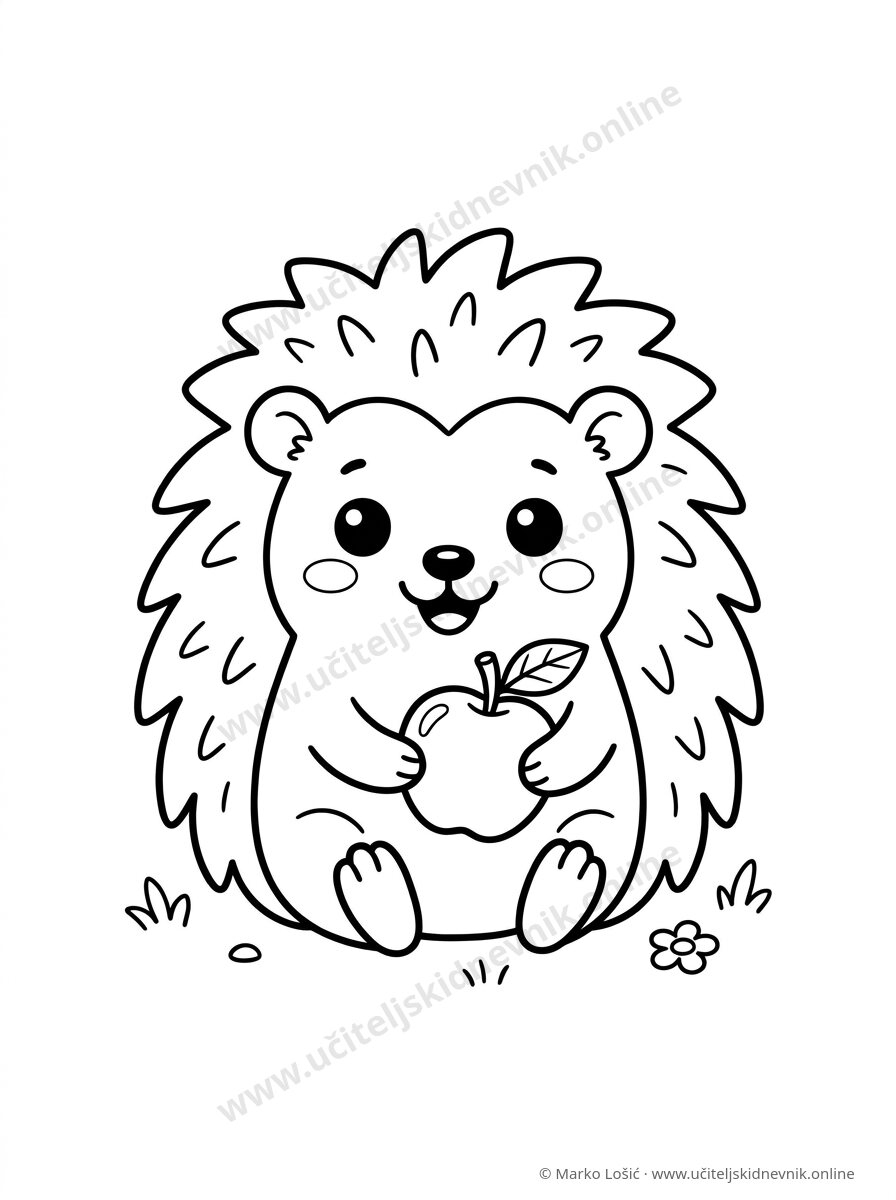
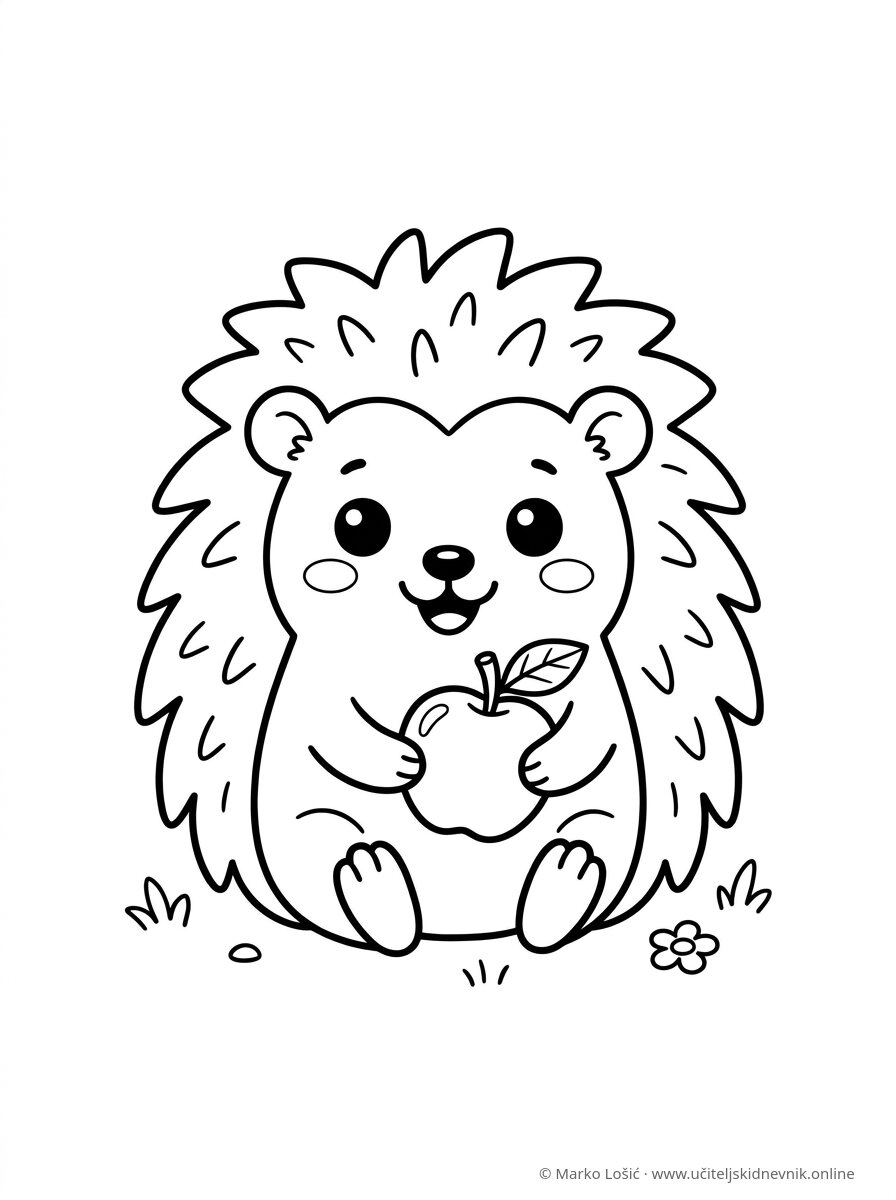
Izbačen watermark

diff --git a/src/games/wildAnimals.tsx b/src/games/wildAnimals.tsx
@@ -1,6 +1,6 @@
 // Bojanka „Divlje životinje“: naslovna strana, 12 životinja (svaka sa imenom i zanimljivošću) i strana
 // za crtanje. Svi crteži su naši (SVG u kodu), da bojanka ne zavisi od tuđih ilustracija.
-// Vodeni žig sajta je ispod crteža: vidi se u praznom prostoru, a životinje (bijela ispuna) ga pokrivaju.
+// U donjem desnom uglu svake slike je mali potpis autora i adresa sajta.
 import type { ReactNode, SVGProps } from 'react';
 import { siteConfig } from '../config/site';
 import type { Dictionary } from '../i18n/dictionaries';
@@ -122,26 +122,10 @@ function Ground({ y = 512 }: { y?: number }) {
   return <path d={`M8 ${y + 6} Q160 ${y - 10} 300 ${y} T592 ${y - 4}`} {...T} strokeWidth={3} />;
 }
 
-function Watermark() {
-  const text = `www.${siteConfig.name}`;
-  return (
-    <g fill="#9ca3af" opacity={0.28} fontFamily="'Space Grotesk', sans-serif" fontSize={26} fontWeight={700} textAnchor="middle">
-      <g transform="rotate(-28 300 300)">
-        {[150, 320, 490].map((y) => (
-          <text key={y} x={300} y={y}>
-            {text}
-          </text>
-        ))}
-      </g>
-    </g>
-  );
-}
-
 function Frame({ children, label }: { children: ReactNode; label?: string }) {
   return (
     <svg viewBox={`0 0 ${SIZE} ${SIZE}`} className="block w-full" role="img" aria-label={label}>
       <rect x={6} y={6} width={588} height={588} rx={22} fill="#fff" stroke={INK} strokeWidth={3} />
-      <Watermark />
       {children}
       <text x={580} y={586} textAnchor="end" fontSize={11} fill="#6b7280">
         © {siteConfig.author.name} · www.{siteConfig.name}

diff --git a/src/games/forestAnimals.tsx b/src/games/forestAnimals.tsx
@@ -1,5 +1,5 @@
 // Bojanka „Šumske životinje“: autorove ilustracije (public/slike/bojanke/sumske-zivotinje/).
-// Vodeni žig i potpis su upisani u same slike (ImageMagick), pa ostaju i kad se slika preuzme sa sajta.
+// Mali potpis autora (donji desni ugao) je upisan u same slike (ImageMagick).
 import type { ReactNode } from 'react';
 import type { Dictionary } from '../i18n/dictionaries';
 

diff --git a/CLAUDE.md b/CLAUDE.md
@@ -154,8 +154,8 @@ Učiteljski_dnevnik/            ← koren projekta (npm ime: uciteljski-dnevnik)
     │   ├── shared.tsx         # toyHex, shuffle, ShapeIcon, RoundDots, useShake, useDragDrop
     │   ├── things.ts          # sličice (lucide) za pamćenje, brojanje, veličine
     │   ├── worksheets.tsx     # 21 radni list: igre na papiru, predpisanje, pisanje, brojevi, logika
-    │   ├── wildAnimals.tsx    # bojanka „Divlje životinje“ (14 strana, naši SVG crteži, vodeni žig sajta)
-    │   ├── forestAnimals.tsx  # bojanka „Šumske životinje“ (9 autorovih ilustracija, žig upisan u slike)
+    │   ├── wildAnimals.tsx    # bojanka „Divlje životinje“ (14 strana, naši SVG crteži)
+    │   ├── forestAnimals.tsx  # bojanka „Šumske životinje“ (9 autorovih ilustracija, potpis upisan u slike)
     │   ├── packs.tsx          # paketi od postojećih listova (WORKSHEET_PACKS): „Paket za zimski raspust“
     │   ├── workbook.tsx       # vježbanka „Vježbam kod kuće — matematika, 2. razred“ (16 strana)
     │   ├── writingHandbook.tsx # priručnik „Kako nastaje priča“ za mlade pisce (15 strana, latinica i ćirilica)
@@ -688,8 +688,8 @@ Redosled sekcija (lično predstavljanje pa blog):
 - Grupa `time` (Spoznaja vremena: `timeSequence`, `timeDayParts`, `timeRoutine`, `timeClock`, `timeWeek`, `timeYear`) i smislene bojanke (`coloringHandWash`, `coloringTraffic`, `coloringFood`, `coloringRecycle`, `coloringFeelings`) crtaju se u kodu (`worksheets.tsx`); isto važi za vežbe uz te lekcije (`timeClockRead`, `timeClockMath`, `timeDaysOrder`, `timeCalendar`) i matematiku sa mnogo zadataka (`mathAdd10`…`mathDivide` po 2 × 48 zadataka iz generatora sa fiksnim semenom — `DRILL_SETS`, da se štampa uvek isto; `mathHouses`, `mathPyramids`, `mathNumberLine`, `mathWordProblems` sa tekstom zadataka u `labels.wordProblems`). Pitanja u `labels.calendarTasks` važe za kalendar od 30 dana koji počinje u sredu (`CALENDAR_START`); natpisi na njima (dani, meseci, delovi dana, osećanja…) su u `t.games.worksheet.labels` i stižu kroz `SheetContext.labels` — imena dana i mjeseci su u rečnicima (ne iz `Intl`), da svaki jezik ima tačno svoje oblike (npr. hr: siječanj).
 - Grupa `books` („Priručnici i vježbanke“) je prva na stranici radnih listova i drži izdanja od više strana (vježbanka i priručnik); nova takva izdanja idu u nju, a ne u tematske grupe.
 - **Paketi** (`packs.tsx`, `WORKSHEET_PACKS`): izdanje složeno od prve strane postojećih listova, jedan list = jedan dan. `Worksheet.tsx` daje svakoj takvoj strani zaglavlje njenog lista (naslov, uputstvo, eyebrow „Dan N“), pa staje na A4 isto kao sam list. Vlastite strane paketa: prva (plan) ide na početak, ostale (diploma) na kraj. U paket idu samo listovi od jedne strane koji postoje na svim jezicima paketa. „Paket za zimski raspust“ (`winterBreakPack`) = plan + 12 dana + diploma; tekst je u `t.games.worksheet.labels.winterPack`.
-- **Bojanka „Divlje životinje“** (`coloringWildAnimals`, `wildAnimals.tsx`, grupa `books`): naslovna strana, 12 životinja (svaka: scena + životinja + ime u slovima za bojenje + zanimljivost ispod) i strana za crtanje. Crteži su naši (SVG u kodu) — **ne precrtavati tuđe bojanke**. Vodeni žig (`www.` + `siteConfig.name`, koso, svijetlosivo) ide ispod crteža, pa ga životinje sa bijelom ispunom pokrivaju. Imena i zanimljivosti su u `t.games.worksheet.labels.wildAnimals`. Nova životinja: id u `WILD_ANIMALS`, komponenta u `ANIMALS`, scena u `SCENES`, tekst u svih pet rječnika.
-- **Bojanka „Šumske životinje“** (`coloringForestAnimals`, `forestAnimals.tsx`, grupa `books`): autorove ilustracije u `public/slike/bojanke/sumske-zivotinje/NN-ime.jpg` (896×1200, sivo). Vodeni žig (koso, svijetlosivo) i potpis „© Marko Lošić · www.učiteljskidnevnik.online“ su **upisani u sliku** ImageMagickom (`magick … -annotate 330x330 … -compose multiply`, font Noto Sans), pa ostaju i kad se slika preuzme. Nova slika ide kroz isti postupak. Ime i zanimljivost su u `t.games.worksheet.labels.forestAnimals`. Sličica za kartice i og:image je `02-lisica.jpg` (`thumbnails.ts`).
+- **Bojanka „Divlje životinje“** (`coloringWildAnimals`, `wildAnimals.tsx`, grupa `books`): naslovna strana, 12 životinja (svaka: scena + životinja + ime u slovima za bojenje + zanimljivost ispod) i strana za crtanje. Crteži su naši (SVG u kodu) — **ne precrtavati tuđe bojanke**. Bez vodenog žiga (autor ga ne želi); u donjem desnom uglu svake slike je mali potpis. Imena i zanimljivosti su u `t.games.worksheet.labels.wildAnimals`. Nova životinja: id u `WILD_ANIMALS`, komponenta u `ANIMALS`, scena u `SCENES`, tekst u svih pet rječnika.
+- **Bojanka „Šumske životinje“** (`coloringForestAnimals`, `forestAnimals.tsx`, grupa `books`): autorove ilustracije u `public/slike/bojanke/sumske-zivotinje/NN-ime.jpg` (896×1200, sivo). Bez vodenog žiga (autor ga ne želi); mali potpis „© Marko Lošić · www.učiteljskidnevnik.online“ u donjem desnom uglu je **upisan u sliku** ImageMagickom (`magick … -gravity southeast -annotate +40+16 …`, font Noto Sans). Nova slika ide kroz isti postupak. Ime i zanimljivost su u `t.games.worksheet.labels.forestAnimals`. Sličica za kartice i og:image je `02-lisica.jpg` (`thumbnails.ts`).
 - **QR kod u zaglavlju svake strane** (`.sheet-qr`, desno od naslova): vodi na adresu tog lista (`siteConfig.url` + `paths.worksheet(id)`), tekst ispod je `t.games.worksheet.qr`. Na ekranu < 640px se ne prikazuje. Pri izmjeni zaglavlja provjeri da nijedan list nije dobio stranu više (uporedi broj strana PDF-a prije i poslije).
 - Vježbanka `homeWorkbookMath2` (`workbook.tsx`, samo sr i bs jer je novac u KM): plan vježbanja, 12 dana po jedna strana sa likom Njuška, koker španijela (SVG `Njusko`), Veliki izazov, diploma i rješenja za roditelje. Brojevi u zadacima su u nizovima na vrhu fajla, a rješenja se iz njih računaju — pri izmjeni zadatka mijenja se samo niz.
 - Priručnik „Kako nastaje priča“ (`writingHandbookLatin` / `writingHandbookCyrillic`, `writingHandbook.tsx`, sr i bs): uvod sa mapom, 12 tema (pravilo pisaca, primjer „Iz radionice“, preporuka „Pročitaj“, vježbe), plan priče i strana za pisanje sa listom za provjeru. Tekst se piše latinicom, a ćirilična verzija nastaje funkcijom `toCyrillic`. Primjeri su naš tekst — ne prepisivati odlomke iz knjiga zaštićenih autorskim pravom, nego knjigu samo preporučiti.
